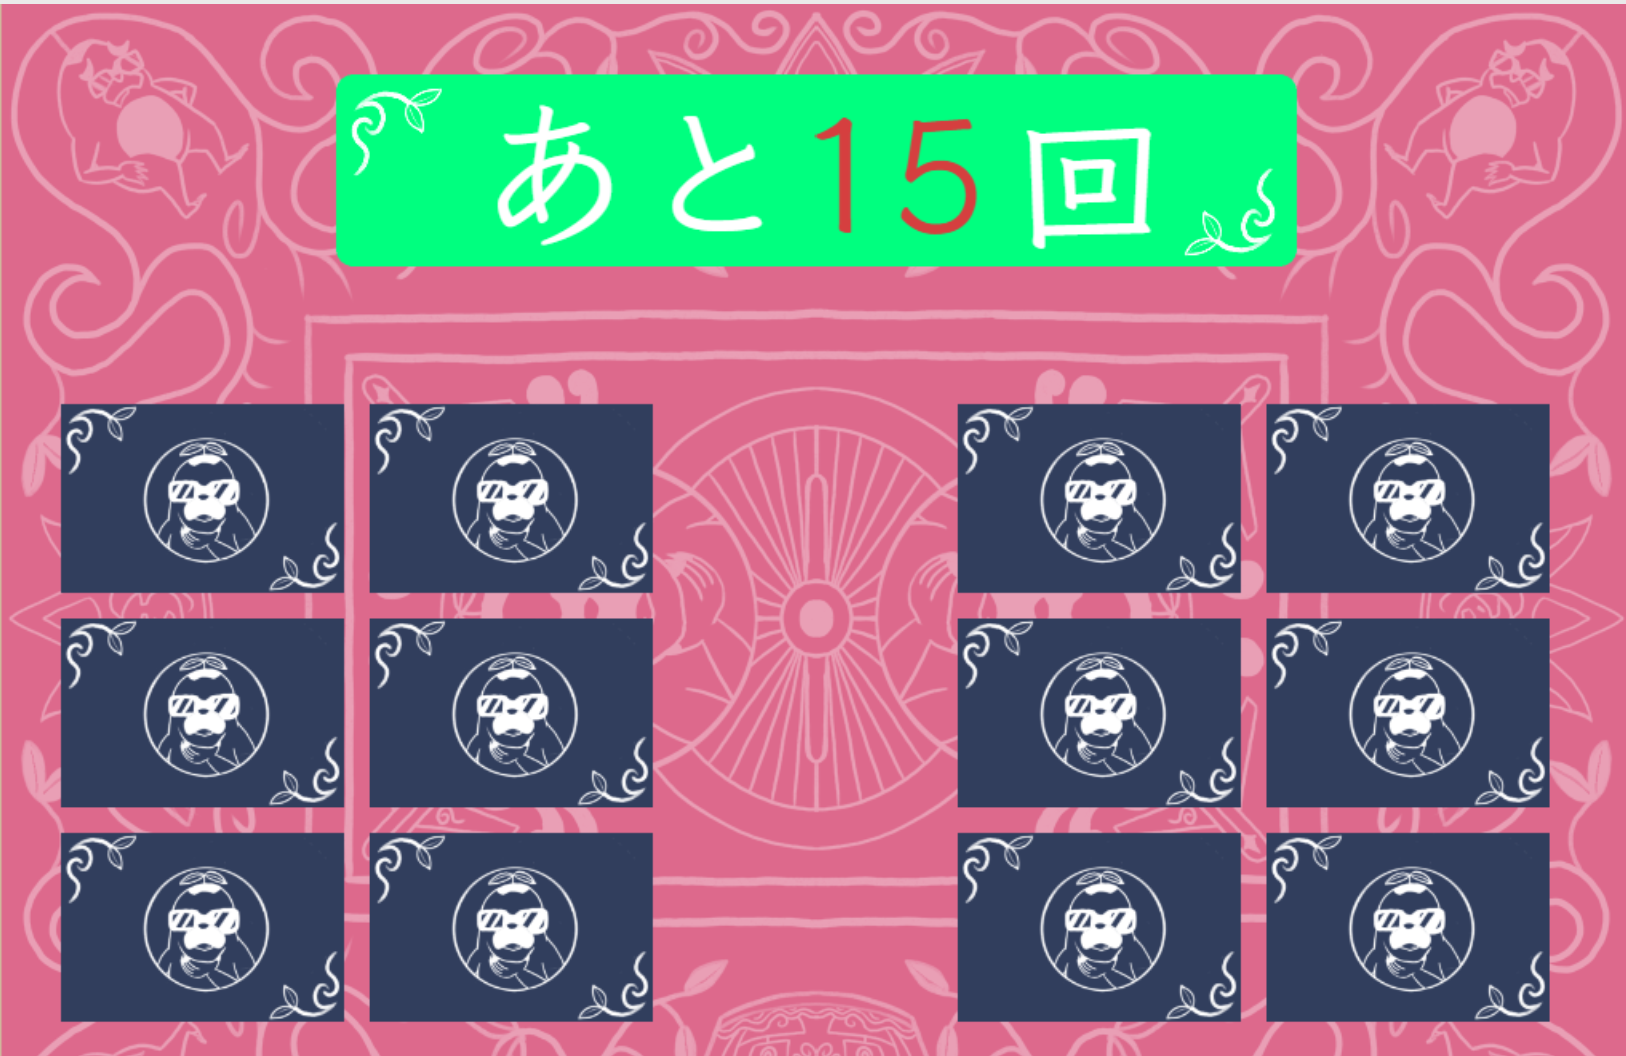
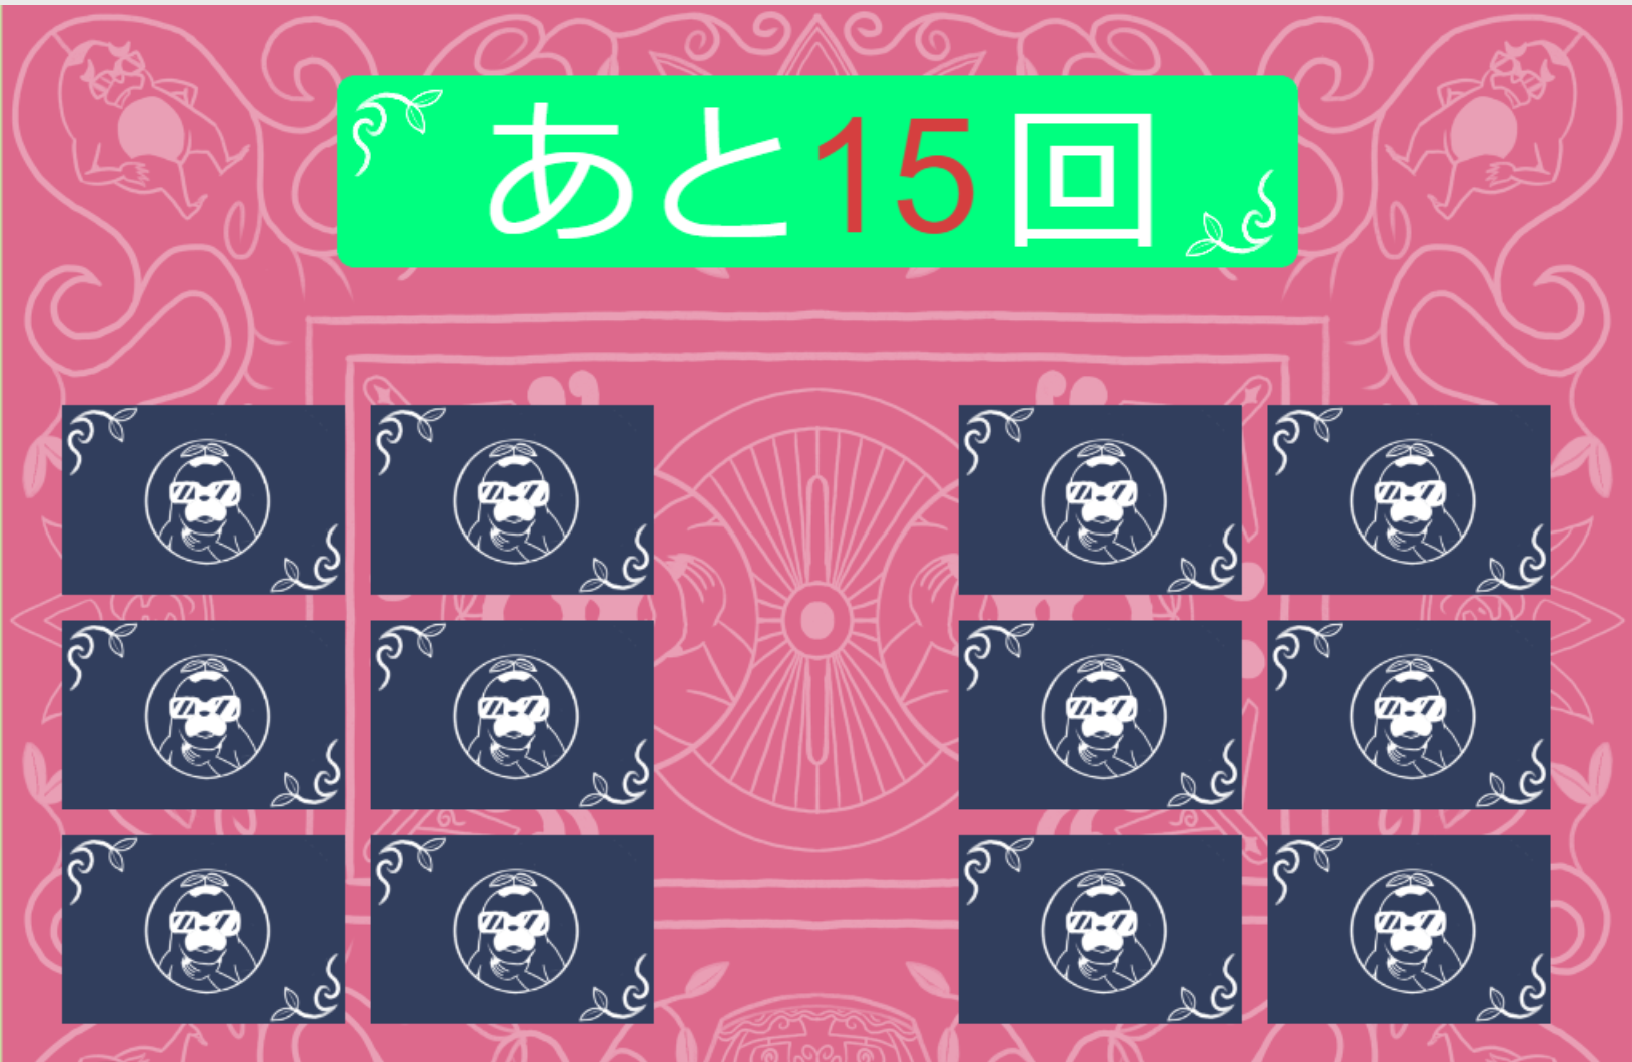
UI文字調整

diff --git a/src/scenes/memory_game.js b/src/scenes/memory_game.js
@@ -413,7 +413,7 @@ export default class MemoryGame extends Phaser.Scene {
           RightCardsData, {
             color: COLOR_LIGHT_BLACK.toString(),
             fontSize: `${this.rightFontSize}px`,
-            fontFamily: "KleeOne-SemiBold"
+            fontFamily: "KleeOneForStrokeCount"
           }
         )
         .setOrigin(0, 0).setPadding(0, 4, 0, 0)
@@ -452,7 +452,7 @@ export default class MemoryGame extends Phaser.Scene {
           LeftCardChar, {
             color: COLOR_LIGHT_BLACK.toString(),
             fontSize: `${this.leftFontSize}px`,
-            fontFamily: "KleeOne-SemiBold"
+            fontFamily: "KleeOneForStrokeCount"
           }
         )
         .setOrigin(0, 0).setPadding(0, 4, 0, 0)
@@ -960,7 +960,7 @@ export default class MemoryGame extends Phaser.Scene {
     this.add
       .text(
         this.game.canvas.width / 8 - 45 + 75,
-        40,
+        30,
         "プレイヤー１", {
           color: COLOR_LIGHT_BLACK.toString(),
           fontSize: '30px',
@@ -972,7 +972,7 @@ export default class MemoryGame extends Phaser.Scene {
     this.add
       .text(
         this.game.canvas.width * 0.76 - 100,
-        40,
+        30,
         "プレイヤー２", {
           color: COLOR_LIGHT_BLACK.toString(),
           fontSize: '30px',
@@ -987,7 +987,7 @@ export default class MemoryGame extends Phaser.Scene {
     this.player1PointComponent =
       this.add
       .text(
-        130 + 75,
+        130 + 85,
         75,
         (this.player1PointCounter.toString()), {
           color: COLOR_LIGHT_BLACK.toString(),

diff --git a/src/main.js b/src/main.js
@@ -106,5 +106,5 @@ const config = {
 const game = new Phaser.Game(config);
 
 game.registry.set("fontFamily", "'sans-serif',KleeOne, Arial, Sarabun");
-game.registry.set("kanjiFontFamily", 'KleeOne-SemiBold');
+game.registry.set("kanjiFontFamily", 'KleeOneForStrokeCount');
 export default game;

diff --git a/src/scenes/memory_genre1_setting.js b/src/scenes/memory_genre1_setting.js
@@ -227,7 +227,7 @@ export default class MemoryGenreSetting extends Phaser.Scene {
         this
       );
 
-    this.add.text(200, 530, "◀戻る", {
+    this.add.text(190, 530, "◀戻る", {
       fontSize: "32px",
       color: "#333333",
       fontFamily: this.fontFamily,

diff --git a/src/scenes/memory_level_setting.js b/src/scenes/memory_level_setting.js
@@ -197,7 +197,7 @@ export default class MemoryLevelSetting extends Phaser.Scene {
         this
       );
 
-    this.add.text(200, 530, "◀戻る", {
+    this.add.text(190, 530, "◀戻る", {
       fontSize: "32px",
       color: "#333333",
       fontFamily: this.fontFamily,

diff --git a/public/style.css b/public/style.css
@@ -8,7 +8,7 @@
 }
 
 @font-face {
-  font-family: 'KleeOne-SemiBold';
+  font-family: 'KleeOneForStrokeCount';
   src: url('/public/assets/font/KleeOne-SemiBold.ttf');
 }
 
